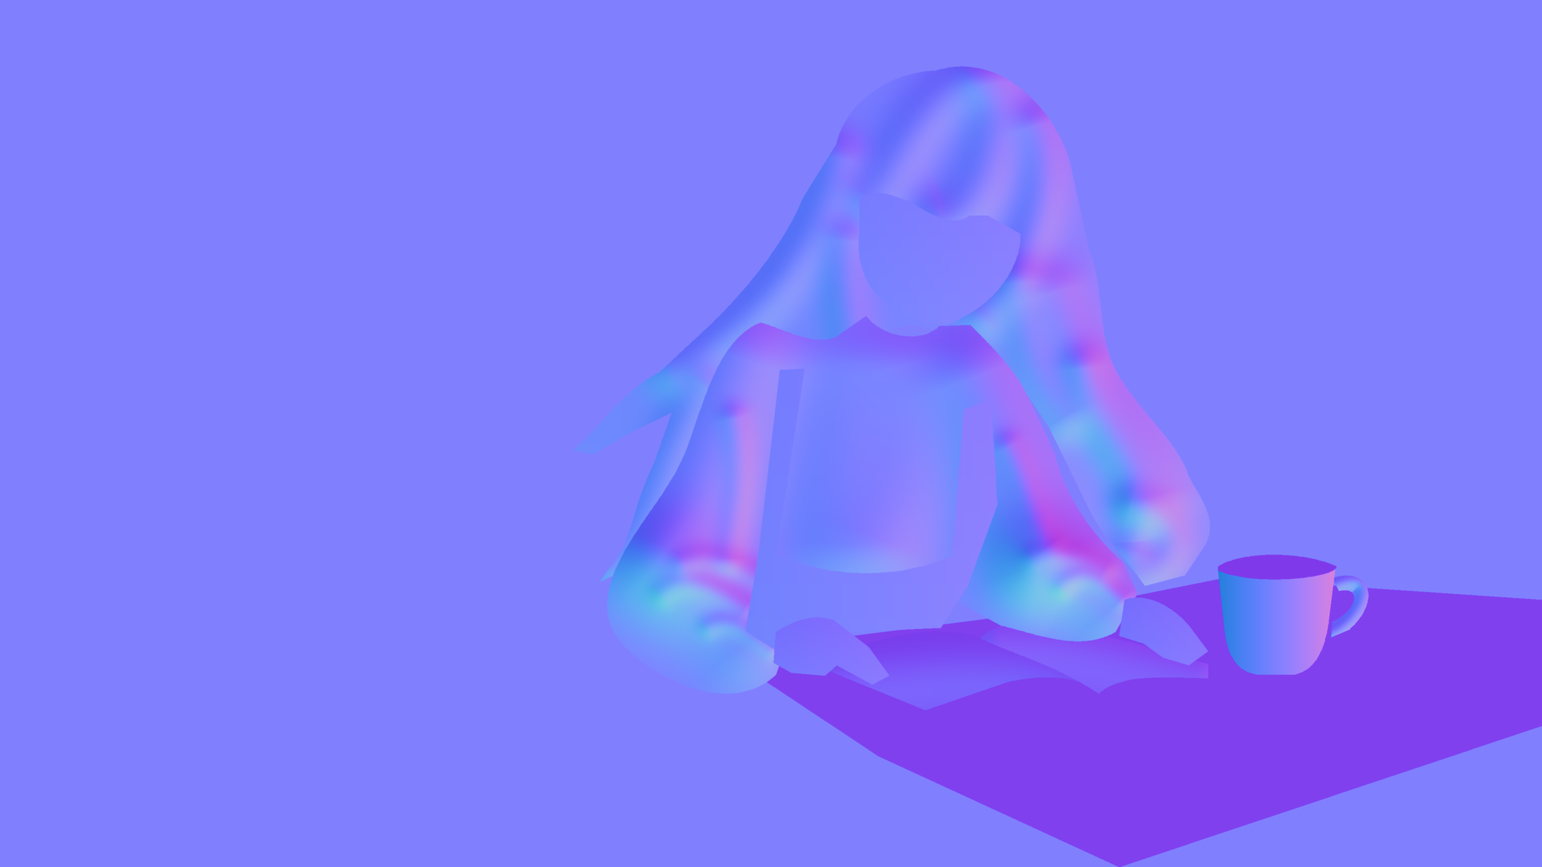
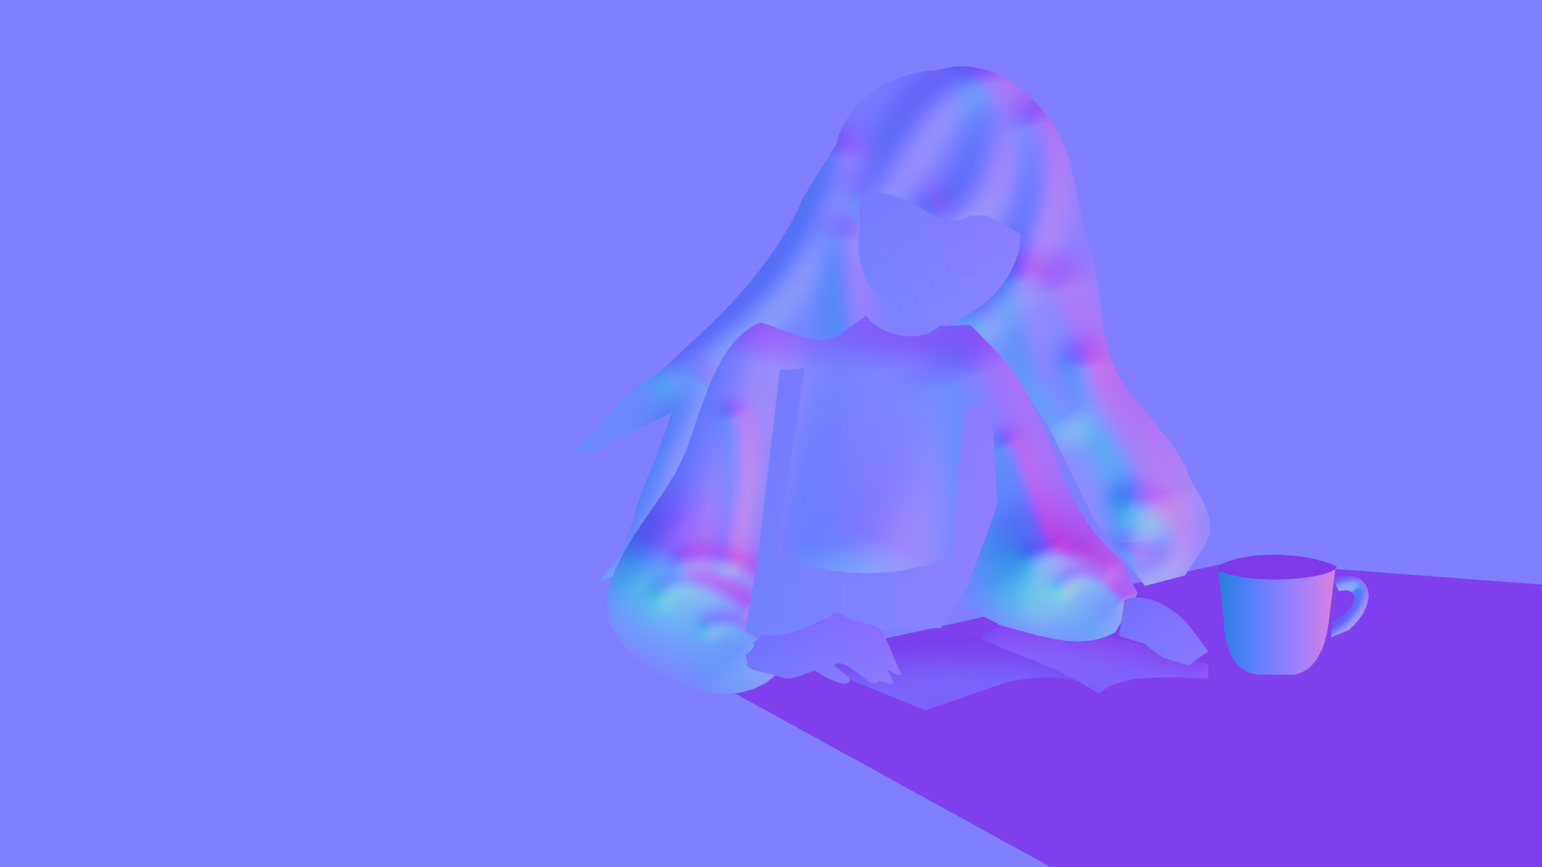
Fix hand and desk receiving masks and remove displaced shadow artifacts

diff --git a/tests/visual/desk-light.visual.spec.ts b/tests/visual/desk-light.visual.spec.ts
@@ -1,0 +1,91 @@
+import { test, expect } from '@playwright/test';
+import { visualRoot } from './review-output';
+import { mkdir, writeFile } from 'node:fs/promises';
+
+test('hand receiving light is continuous and book shadows stay at contact', async ({page})=>{
+  await page.setViewportSize({width:1200,height:675});
+  await page.goto('/');
+  await page.waitForFunction(()=>!!window.livingHero);
+  const regions=await page.evaluate(async()=>{
+    async function load(src:string) {
+      const image=new Image();image.src=src;await image.decode();
+      const canvas=document.createElement('canvas');canvas.width=1200;canvas.height=675;
+      const ctx=canvas.getContext('2d')!;ctx.drawImage(image,0,0,1200,675);
+      return (x:number,y:number)=>Array.from(ctx.getImageData(x,y,1,1).data).slice(0,3);
+    }
+    const scene=await load('/assets/generated/scene-masks.svg');
+    const shape=await load('/assets/generated/light-shaping.svg');
+    const character=await load('/assets/generated/character-masks.svg');
+    // Independently located on the artwork: wrist/palm/knuckle, sleeve,
+    // page interior, obsolete floating stripe, and the real lower book edge.
+    return {
+      skin:[[595,508],[615,510],[650,485]].map(([x,y])=>({p:[x,y],scene:scene(x,y),character:character(x,y)})),
+      sleeve:scene(830,470),
+      page:shape(740,525),floating:shape(770,575),contact:shape(720,581),
+    };
+  });
+  for(const point of regions.skin) {
+    expect(point.scene[1],`hand receives light at ${point.p}`).toBeGreaterThan(245);
+    expect(point.character[2],`skin is not cloth at ${point.p}`).toBeLessThan(5);
+  }
+  expect(regions.sleeve[1],'desk does not continue through sleeve').toBeLessThan(5);
+  expect(regions.page[2],'contact must not cover page').toBe(0);
+  expect(regions.floating[2],'old floating book shadow is gone').toBeLessThan(5);
+  expect(regions.contact[2],'contact stays at real book edge').toBeGreaterThan(15);
+
+  const measurements=[];
+  for(const normal of ['low-frequency','registered']) {
+    await page.goto(normal==='registered'?'/?normal=registered':'/');
+    await page.waitForFunction(()=>!!window.livingHero);
+    for(const minutes of [0,720]) {
+      const result=await page.evaluate(async(minutes)=>{
+        const hero=window.livingHero;hero.setReducedMotion(true);hero.setAnimation(false);hero.setSteam(false);
+        hero.setTime(minutes);hero.setDebugView('neutral');
+        async function pixels() {
+          // Read in the render frame, before the non-preserved buffer is cleared.
+          return new Promise<Uint8Array>(resolve=>requestAnimationFrame(()=>{
+            const canvas=document.querySelector<HTMLCanvasElement>('#hero')!;
+            const gl=canvas.getContext('webgl2')!;
+            const data=new Uint8Array(canvas.width*canvas.height*4);
+            gl.readPixels(0,0,canvas.width,canvas.height,gl.RGBA,gl.UNSIGNED_BYTE,data);resolve(data);
+          }));
+        }
+        const at=(data:Uint8Array,x:number,y:number)=>data[((674-y)*1200+x)*4];
+        const neutral=await pixels();
+        const wrist=Array.from({length:48},(_,i)=>at(neutral,595+i,508));
+        hero.setDebugView('shadow');const shadow=await pixels();
+        const page=Array.from({length:32},(_,i)=>at(shadow,740,510+i));
+        return {wristMinimum:Math.min(...wrist),pageShadowMinimum:Math.min(...page),
+          maxWristStep:Math.max(...wrist.slice(1).map((v,i)=>Math.abs(v-wrist[i]))),
+          pageShadowRange:Math.max(...page)-Math.min(...page)};
+      },minutes);
+      expect(result.maxWristStep,`${normal} ${minutes}: no polygon step across skin`).toBeLessThanOrEqual(3);
+      expect(result.wristMinimum,'sampled a rendered lighting buffer').toBeGreaterThan(10);
+      expect(result.pageShadowMinimum,'sampled a rendered shadow buffer').toBeGreaterThan(10);
+      if(minutes===0) expect(result.pageShadowRange,'no translated silhouette on night page').toBeLessThanOrEqual(1);
+      measurements.push({normal,minutes,...result});
+    }
+  }
+  await mkdir(`${visualRoot}/desk`,{recursive:true});
+  await writeFile(`${visualRoot}/desk/continuity.json`,JSON.stringify({regions,measurements},null,2)+'\n');
+});
+
+test('desk review: noon and midnight closeups on both normal maps', async ({page})=>{
+  test.setTimeout(90_000);
+  const errors:string[]=[];page.on('pageerror',e=>errors.push(e.message));
+  await page.setViewportSize({width:1920,height:1080});
+  for(const normal of ['low-frequency','registered']) {
+    await page.goto(normal==='registered'?'/?normal=registered':'/');
+    await page.waitForFunction(()=>!!window.livingHero);
+    await page.addStyleTag({content:'#debug, #status {visibility:hidden!important}'});
+    await page.evaluate(()=>{const h=window.livingHero;h.setReducedMotion(true);h.setAnimation(false);h.setSteam(false);});
+    for(const [name,minutes] of [['midnight',0],['noon',720]] as const)for(const view of ['base','final','neutral','shadow','scene'] as const){
+      await page.evaluate(async({minutes,view})=>{
+        window.livingHero.setTime(minutes);window.livingHero.setDebugView(view);
+        await new Promise<void>(r=>requestAnimationFrame(()=>requestAnimationFrame(()=>r())));
+      },{minutes,view});
+      await page.screenshot({path:`${visualRoot}/desk/${normal}-${name}-${view}.png`,clip:{x:896,y:640,width:1024,height:440}});
+    }
+  }
+  expect(errors).toEqual([]);
+});

diff --git a/src/engine/shaders.ts b/src/engine/shaders.ts
@@ -27,11 +27,6 @@ float region(vec2 p, vec2 center, vec2 radius) {
 }
 vec3 linearize(vec3 c) { return mix(c/12.92, pow((c+0.055)/1.055,vec3(2.4)),step(vec3(0.04045),c)); }
 vec3 encode(vec3 c) { return mix(c*12.92,1.055*pow(max(c,0.0),vec3(1.0/2.4))-0.055,step(vec3(0.0031308),c)); }
-float castCoverage(vec2 p, vec2 offset) {
-  // The source silhouette is prefiltered; a single translated field avoids
-  // multiple stepped outlines and adds no offscreen pass.
-  return texture(uLightShaping,p-offset).g;
-}
 void main() {
   vec3 base = texture(uBase,uv).rgb;
   if(uView==1) { color=vec4(base,1); return; }
@@ -92,33 +87,31 @@ void main() {
   float projectedAmount=(refined && uHasSceneMask ? 1.0 : 0.0)*uProjected*uProjectedIntensity*uSunStrength*uProjectionEnergy*projectedBand*projectedReach*receiver;
   float shadowAmount=0.0;
   if(spatial) {
-    // Raised silhouettes project onto the registered desk/book receivers only.
-    // The casting object itself and exterior glass are excluded as receivers.
-    vec2 sunOffset=axis*vec2(675.0/1200.0,1.0)*mix(.085,.13,dusk);
-    vec2 lampOffset=vec2(-.032,.044);
-    float castOcclusion=castCoverage(uv,mix(sunOffset,lampOffset,night));
-    castOcclusion*=scene.g*(1.0-shape.g)*(1.0-exterior);
+    // Keep receiving light continuous across hand / page / tabletop seams.
+    // A translated 2D silhouette has no receiver height and is not a shadow.
     float day=clamp(uProjectionEnergy,0.0,1.0)*uProjected*clamp(uProjectedIntensity/.42,0.0,1.0)*uSunStrength;
     float aperture=projectedBand*projectedReach;
     float unlitReceiver=receiver*(1.0-aperture);
-    float dayShade=clamp(day*(unlitReceiver*.38+castOcclusion*.38+(1.0-shape.r)*.12*(1.0-exterior)*(1.0-face)),0.0,.68);
+    float dayShade=clamp(day*(unlitReceiver*.30+(1.0-shape.r)*.12*(1.0-exterior)*(1.0-face)),0.0,.50);
     light*=1.0-dayShade;
-    projectedAmount*=1.0-castOcclusion*.82;
     // Night: quiet interior ambient, directional cool spill near the window,
     // then a distinct warm lamp contribution below. No daytime beam remains.
     vec3 room=uAmbient*uAmbientStrength*mix(.42,.80,shape.r);
     vec3 cool=vec3(.055,.095,.17)*shape.r*(.35+hair*.4+body*.15)*uAmbientStrength;
-    light=mix(light,(room+cool)*(1.0-castOcclusion*.32),night*(1.0-exterior));
+    light=mix(light,room+cool,night*(1.0-exterior));
     vec2 deskDelta=(uv-vec2(.795,.765))/vec2(.21,.145);
     vec2 subjectDelta=(uv-vec2(.755,.54))/vec2(.115,.235);
-    float deskPool=exp(-dot(deskDelta,deskDelta))*scene.g;
+    // The table behind the arm must not cut a bright triangle into the sleeve.
+    // Apply the same smooth local lamp field to foreground surfaces instead.
+    float lampReceiver=max(scene.g,max(hair*.85,body*.90));
+    float deskPool=exp(-dot(deskDelta,deskDelta))*lampReceiver;
     float subjectPool=exp(-dot(subjectDelta,subjectDelta))*(hair*.75+body*.65+face*.16);
-    lampPool=(deskPool*.95+subjectPool*.72+lampPool*.16)*(1.0-exterior)*(1.0-castOcclusion*.62);
-    shadowAmount=1.0-(1.0-dayShade)*(1.0-shape.b*.30)*(1.0-night*(1.0-shape.r)*.50)*(1.0-night*castOcclusion*.32);
+    lampPool=(deskPool*.95+subjectPool*.72+lampPool*.16)*(1.0-exterior);
+    shadowAmount=1.0-(1.0-dayShade)*(1.0-shape.b*.12)*(1.0-night*(1.0-shape.r)*.50);
   }
   light+=mix(vec3(1),vec3(1.0,.92,.80),dusk)*projectedAmount;
   light+=vec3(1.0,.63,.32)*uLamp*uLampStrength*(lampPool*(spatial?1.10:.66)+lampBulb*mix(.5,1.5,night));
-  if(spatial) light*=1.0-shape.b*.30;
+  if(spatial) light*=1.0-shape.b*.12;
   // Preserve expression and avoid chromatic/plastic shading on the face.
   vec3 safeLight=max(light,vec3(.60,.51,.46));
   if(refined) {

diff --git a/scripts/summarize-desk-review.py b/scripts/summarize-desk-review.py
@@ -1,0 +1,41 @@
+"""Arrange actual captures at fixed exposure; never synthesize lighting."""
+from pathlib import Path
+from PIL import Image, ImageDraw
+import numpy as np
+
+ROOT = Path(__file__).resolve().parents[1] / 'docs/screenshots/desk-light-review'
+
+
+def desk_board(view, hand=False):
+    tile_w, tile_h = (640, 320) if hand else (1024, 440)
+    sheet = Image.new('RGB', (tile_w*2, (tile_h+28)*2), '#191d22')
+    draw = ImageDraw.Draw(sheet)
+    for row, phase in enumerate(['before', 'after']):
+        for col, time in enumerate(['noon', 'midnight']):
+            image = Image.open(ROOT / phase / 'desk' / f'low-frequency-{time}-{view}.png')
+            if hand:
+                # Same source-registered crop in both versions; no alignment transform.
+                image = image.crop((0, 100, 320, 260)).resize((tile_w, tile_h), Image.Resampling.LANCZOS)
+            sheet.paste(image, (col*tile_w, row*(tile_h+28)+28))
+            draw.text((col*tile_w+10, row*(tile_h+28)+7), f'{phase} / {time} / {view}', fill='white')
+    sheet.save(ROOT / f'{"hand" if hand else "desk"}-{view}-comparison.png')
+
+
+for view in ['final', 'neutral', 'shadow']:
+    desk_board(view)
+desk_board('final', hand=True)
+
+views = ['final', 'grayscale', 'neutral', 'projected', 'shadow', 'overlay', 'scene', 'exterior']
+sheet = Image.new('RGB', (1920, 300*len(views)), '#191d22')
+draw = ImageDraw.Draw(sheet)
+for row, view in enumerate(views):
+    for col, (name, time) in enumerate(zip(['morning','noon','dusk','night'], ['08:00','12:00','17:30','23:00'])):
+        path = ROOT / 'after/acceptance' / f'{name}-{"final" if view=="grayscale" else view}.png'
+        image = Image.open(path).convert('RGB')
+        if view == 'grayscale':
+            image = Image.fromarray(np.uint8(np.asarray(image,dtype=float) @ [.2126,.7152,.0722])).convert('RGB')
+            image.save(path.with_name(f'{name}-grayscale.png'))
+        sheet.paste(image.resize((480,270),Image.Resampling.LANCZOS),(col*480,row*300+25))
+        draw.text((col*480+10,row*300+6), f'{time} / {view}', fill='white')
+sheet.save(ROOT / 'four-times.png')
+print(f'Local review sheets: {ROOT}')

diff --git a/docs/logs/desk-light-review.md b/docs/logs/desk-light-review.md
@@ -1,0 +1,45 @@
+# 左手、书本与桌面光影修正 — 2026-09-16
+
+本轮基于 `a4f6d11`，处理人工指出的中午／夜间桌面异常，优先检查画面左侧的手。此前窗户边界与笔具遮挡不再改动。验收图见 [本轮截图索引](../screenshots/desk-light-review/README.md)。
+
+## 原因与修正
+
+1. **左手轮廓错位。** 旧 `handLeft` 从 `(604,492)` 开始，漏掉实际手腕、手掌与上方指节；它同时用于从衣服中排除皮肤和挖除桌面接收区。不同受光系数因此在手背内部形成多边形。按原图重新描绘外轮廓，并让手、书与桌面使用连续的接收覆盖，不再在手部挖洞。
+2. **桌面覆盖穿过前景。** 桌面多边形没有扣除头发／衣服，夜间台灯光池沿桌面的上边界切过右侧袖子。生成接收图时按前后关系扣除人物，再加入手部；台灯的同一平滑光池也作用于前景袖子和头发，避免在穿过袖子的桌面边线处突然开启。
+3. **整轮廓平移无法表示物体投影。** 旧 shader 根据太阳／台灯方向平移人物、书本、杯子轮廓，却没有投射物高度或接收面深度，产生落在书页、手部及桌面的重复轮廓。删除 `castCoverage`、偏移量及其对日照、环境光、台灯的多次压暗。保留窗框光带间的柔和暗区和光带外压暗。
+4. **书本底部接触位置错误。** 旧阴影折线与书本实际下缘分离。校准完整书本轮廓和下缘，仅在暴露桌面上生成轻微接触阴影；强度上限从 30% 降到 12%，避免重复强化原画已有阴影。笔记本电脑从桌面接收区排除。
+
+没有改变人物设计、原画像素或整体色温参数，没有新增调试参数／纹理／渲染 pass，也没有加入 UV 阈值补丁。
+
+## 文件
+
+| 文件 | 改动与理由 |
+| --- | --- |
+| `docs/scene-regions.json` | 校准左手、桌面、书本、书底接触区域；增加笔记本电脑排除轮廓。共同维护材质、受光及法线的配准依据。 |
+| `scripts/generate-scene-assets.mjs` | 前景遮挡桌面接收层；手部参与受光；接触阴影只落在暴露桌面；移除旧 caster 图生成。 |
+| `src/engine/shaders.ts` | 删除整轮廓平移阴影；降低额外压暗，台灯光池连续经过前景表面。 |
+| `public/assets/generated/character-masks.svg`, `scene-masks.svg`, `light-shaping.svg`, `normal-low-frequency.svg` | 由修正后的 source-of-truth 重建；非手工修改产物。 |
+| `public/assets/generated/normal-registered-v1.png` | 使用相同修正区域重建候选，继续保持 3840×2160。 |
+| `tests/visual/desk-light.visual.spec.ts` | 两套 normal 的中午／午夜近景；皮肤接收、袖子排除、接触位置和局部亮度连续性回归。 |
+| `scripts/summarize-desk-review.py` | 从真实浏览器截图整理手部、桌面前后对照及四时段八视图；曝光不另行调整。 |
+| README、architecture、技术资产说明及截图索引 | 更新通道含义、验收入口和当前限制。 |
+
+`light-shaping.svg` 当前 R = 窗侧通达度，G = 暴露桌面覆盖（诊断数据），B = 被该覆盖限制的书／杯接触暗部。shader 不再平移／采样 G 来生成假投影。GPU 纹理尺寸及渲染 pass 数不变。
+
+## 验证
+
+- `npm run typecheck`：通过。
+- `npm run build`：通过。
+- `npm test`：7 项通过。
+- `npm run test:visual`：31 项通过，包括窗框／玻璃独立采样、投光时段结构、夜间投光归零、冷窗／暖灯分区、normal 向量和两套 normal 的近景。
+- 本机 Playwright 测试结束后 Vite 退出会停滞；仅停止本次工具输出所标识的 Vite 进程后，命令返回 `31 passed`、退出码 0。无测试跳过或阈值放宽。
+- 1200×675 视口、原图左手内部 `y=508, x=595…642`：两套 normal 的 Neutral 相邻最大变化均为午夜 2/255、中午 1/255。采样明确要求非零渲染缓冲，避免 WebGL 自动清屏造成假通过。
+- 1920×1080 的前后截图同一手部横截线：中午相邻最大变化由 11/255 降到 1/255；午夜由 2/255 降到 1/255。
+- 午夜书页内部 `x=740, y=510…541` 的 Shadow 变化范围为 0；不再出现平移的人物阴影。真正书底接触点仍有非零遮挡，旧悬空条带采样为零。
+- 当前 23:00 Exterior 与上轮 `normal-map-review/final/acceptance/night-exterior.png` 逐像素对照，变化像素数 **0**。
+
+## 当前限制与 normal 状态
+
+这次修复的是错误的区域分配和投影模型，normal 图本身无法修复这两类问题。配准 normal v1 已同步轮廓并复测，但仍为 `/?normal=registered` 的候选；普通 `/` 保留低频版本。现有 normal 只控制 directional light，对 projected light 与夜间台灯尚无表面方向响应，不能宣称换图后夜景已获得真实几何光照。
+
+原图含有烘焙日照与接触阴影；目前保留这些细节，仅增加受约束的柔和光照。接触区域和头发／衣服轮廓仍为手绘近似，也没有高度场、真实遮挡射线或动态物理投影。后续 normal 精修应在本轮手部／桌面观感获认可后继续，不能用更复杂法线掩盖区域错误。本轮在此停下供人工验收。

diff --git a/docs/screenshots/desk-light-review/README.md b/docs/screenshots/desk-light-review/README.md
@@ -1,0 +1,37 @@
+# 左手与桌面光影验收
+
+重点：画面左侧手腕／手背的块状受光、书页上的错位投影及夜間桌面光池。左列中午，右列午夜；对比图上行为修改前，下行为修改后。
+
+- **[左手放大前后对照](hand-final-comparison.png)**
+- [桌面 Final 前后对照](desk-final-comparison.png)
+- [桌面 Neutral 前后对照](desk-neutral-comparison.png)
+- [桌面 Shadow 前后对照](desk-shadow-comparison.png)
+- [四时段八视图总览](four-times.png)：含 Final 灰度转换；无逐图曝光归一化。
+- [原因、文件改动与测试结果](../../logs/desk-light-review.md)
+
+## 原始浏览器截图
+
+| 时间 | Final | Neutral | Scene | Overlay | Projected | Exterior | Shadow |
+| --- | --- | --- | --- | --- | --- | --- | --- |
+| 08:00 | [查看](after/acceptance/morning-final.png) | [查看](after/acceptance/morning-neutral.png) | [查看](after/acceptance/morning-scene.png) | [查看](after/acceptance/morning-overlay.png) | [查看](after/acceptance/morning-projected.png) | [查看](after/acceptance/morning-exterior.png) | [查看](after/acceptance/morning-shadow.png) |
+| 12:00 | [查看](after/acceptance/noon-final.png) | [查看](after/acceptance/noon-neutral.png) | [查看](after/acceptance/noon-scene.png) | [查看](after/acceptance/noon-overlay.png) | [查看](after/acceptance/noon-projected.png) | [查看](after/acceptance/noon-exterior.png) | [查看](after/acceptance/noon-shadow.png) |
+| 17:30 | [查看](after/acceptance/dusk-final.png) | [查看](after/acceptance/dusk-neutral.png) | [查看](after/acceptance/dusk-scene.png) | [查看](after/acceptance/dusk-overlay.png) | [查看](after/acceptance/dusk-projected.png) | [查看](after/acceptance/dusk-exterior.png) | [查看](after/acceptance/dusk-shadow.png) |
+| 23:00 | [查看](after/acceptance/night-final.png) | [查看](after/acceptance/night-neutral.png) | [查看](after/acceptance/night-scene.png) | [查看](after/acceptance/night-overlay.png) | [查看](after/acceptance/night-projected.png) | [查看](after/acceptance/night-exterior.png) | [查看](after/acceptance/night-shadow.png) |
+
+额外的 **00:00／12:00** 桌面 Base／Final／Neutral／Scene／Shadow 近景位于 `after/desk/`；包括低频 normal 与 registered 候选两种版本。候选四时段全图位于 `after/normals/`。
+
+本轮窗户 mask 未调整；23:00 Exterior 与上轮逐像素一致。配准 normal 已按校准区域重建，但仍为候选，尚未替换默认版本。
+
+## 复现
+
+PowerShell，在仓库根目录：
+
+```powershell
+npm run assets:generate
+npm run assets:normal
+$env:VISUAL_OUTPUT_ROOT='docs/screenshots/desk-light-review/after'
+npm run test:visual
+python scripts/summarize-desk-review.py
+```
+
+`before/desk/` 来自修改前 `a4f6d11` 的同配置浏览器截图；重建前后对照需要保留它。所有测试图片、指标 JSON 和临时日志均被 Git 忽略，仅说明和重建脚本提交到仓库。测试为 7 项单元测试、31 项浏览器测试，均通过。

diff --git a/README.md b/README.md
@@ -8,6 +8,8 @@
 
 新增 [配准 normal v1 候选与笔具 mask 修正](docs/screenshots/normal-map-review/README.md)。运行开发服务器后访问 `/?normal=registered` 可预览候选；普通 `/` 保留低频版用于对照。候选可用 `npm run assets:normal` 重建，当前仍需人工审核，不代表高质量法线已最终验收。
 
+最新修正：[左手、书页与桌面光影验收](docs/screenshots/desk-light-review/README.md)。校准左手和书本轮廓，消除桌面区域穿过袖子的受光错误，删除无深度依据的整轮廓平移投影。两套 normal 均已复核，候选同步采用修正后的区域。
+
 ## 本地运行
 
 推荐 Node.js 22.12+（本机验证：22.17.1）。
@@ -62,4 +64,4 @@ docs/screenshots/ dawn / noon / dusk / night 实际浏览器截图
 
 当前默认加载四张可再生成的 SVG 技术贴图：人物轮廓遮罩、场景区域遮罩、低频法线、空间遮挡数据。轮廓源文件在 `docs/scene-regions.json`，执行 `npm run assets:generate` 再生成，然后刷新页面。重新生成需要 Python 3 + Pillow + NumPy（`python -m pip install Pillow numpy`），用于从原图提取局部白花遮挡；运行应用和 build 不需要 Python。细发丝、花枝与透明物体仍是近似分割。也可通过 `normalUrl` / `maskUrl` / `sceneMaskUrl` 替换为同尺寸精修贴图；`lightShapingUrl` 接受相同比例、准确配准的较低分辨率数据图。
 
-玻璃轮廓直接按原图边界栅格化，已删除会产生缝隙的内缩羽化，Scene / Overlay / Final / Exterior Mask 使用一致覆盖值。时段投光配合背光压暗、物体投影与接触阴影；夜景分为冷色窗外、暖色台灯光池和暗室。Bloom、蒸汽已有实现，本轮未扩展其他动效。原图已有日照与阴影仍无法完全消除，低频法线也无法还原细发丝和衣褶。先人工验收，再决定高质量配准法线的制作；尚未迁移到 Blog。
+玻璃轮廓直接按原图边界栅格化；左玻璃下缘有匹配原图虚焦的局部过渡，Scene / Overlay / Final / Exterior Mask 使用一致覆盖值。时段投光配合背光压暗和轻微的书本／杯垫接触阴影；夜景分为冷色窗外、暖色台灯光池和暗室。无接收面高度依据的整轮廓平移投影已删除。Bloom、蒸汽已有实现，本轮未扩展其他动效。原图已有日照与阴影仍无法完全消除，低频法线也无法还原细发丝和衣褶。先人工验收，再继续完善配准法线；尚未迁移到 Blog。

diff --git a/docs/architecture.md b/docs/architecture.md
@@ -4,22 +4,27 @@
 
 The historical baseline below is retained for context. Current glass/receiver
 semantics, projected-light algorithm, validation and constraints are documented
-in [spatial-light-review.md](logs/spatial-light-review.md).
+in [spatial-light-review.md](logs/spatial-light-review.md), superseded for desk
+receivers and shadows by [desk-light-review.md](logs/desk-light-review.md).
 
 - `lighting.ts` exports `projectedLightAt` for continuous artwork-directed daylight.
 - `renderer.ts` uploads its geometry/shape/energy; `shaders.ts` evaluates two soft
   aperture lobes in aspect-correct image coordinates and gates them by receivers.
 - Scene R is source-edge glass coverage with native raster antialiasing, no erosion. Scene G
-  is indoor receiver weight, including book/cup/stacked books/chair as well as desk.
+  is indoor receiver coverage, including hands/book/cup/stacked books/chair as well as desk.
+  Hair/clothing occlude the desktop; hands are included at full receiving coverage.
   Scene B remains lamp emission.
 - Optional `lightShapingUrl` supplies a 1200×675 RGB map: window access, softened
-  raised-object silhouettes, and contact occlusion. It occupies texture unit 5;
+  exposed desktop coverage, and contact occlusion. G is a diagnostic coverage
+  channel; B is clipped to that exposed desktop during generation. It occupies texture unit 5;
   bloom remains on unit 4. Total source texture storage is nominally 97.24 MiB.
   No rendering pass was added. Aspect ratio is validated; registration still
   requires source inspection. Existing consumers can omit this optional map.
-- Projection includes a mullion gap, reduced light outside the aperture and
-  translated silhouette shadows on receivers. Night separately combines quiet
-  room ambient, window-side cool spill and a warm desk/subject lamp pool.
+- Projection includes a mullion gap and reduced light outside the aperture.
+  Translated silhouette shadows were removed: without receiver height they painted
+  detached shadows across the hand/pages. Contact darkening is restrained and
+  source-registered. Night separately combines quiet room ambient, window-side
+  cool spill and a warm desk/subject lamp pool continuous over foreground sleeves.
 - Flower occlusion is generated offline by Python/Pillow/NumPy within the source
   JSON ROI and embedded in the scene SVG; there is no new runtime texture/pass.
 - Neutral is fixed-scale grayscale luminance (×0.6); Projected is raw projection.
